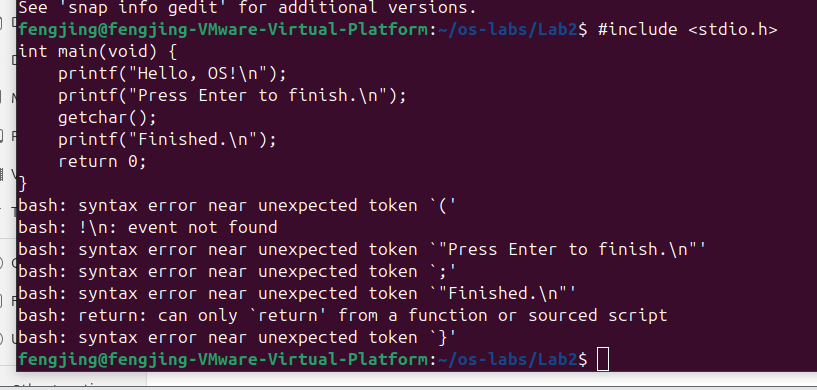
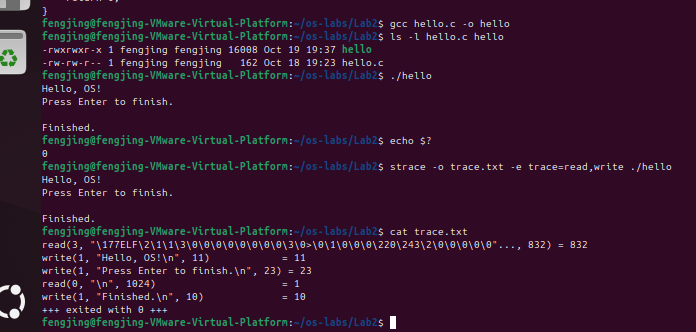
zy

Changed region(s): [[0.0, 0.0, 1.0, 1.0], [0.5129, 0.6024, 0.875, 0.6627], [0.7543, 0.7229, 0.8448, 0.753]]

diff --git a/2026333035冯靖/Lab2/Lab2.md b/2026333035冯靖/Lab2/Lab2.md
@@ -445,7 +445,7 @@ read(0, "\n", 4096) = 1
 | 使用本人实验结果，保留了运行前的预测和运行后的解释 |是 |
 | 本文件所有必做填写区均已完成 |是 |
 | 共 2 张截图，文件名和大小写与下表完全一致 |是 |
-| Markdown 预览中每张图片都能正常显示且文字可读 | |
+| Markdown 预览中每张图片都能正常显示且文字可读 |是 |
 | 只修改了自己的 10 位数字学号 + 姓名目录 |是 |
 | 没有提交练习源码、可执行文件、跟踪日志或 IDE 配置 |是 |
 
